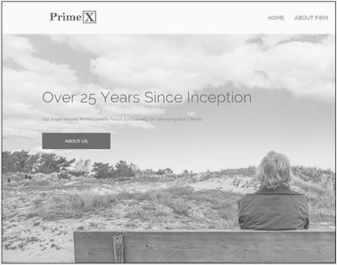
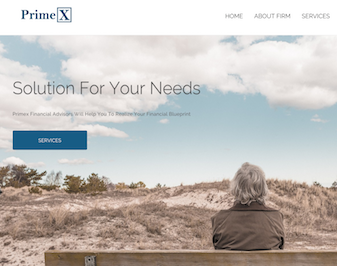
new hover states and imgs

diff --git a/organge/public/css/style.css b/organge/public/css/style.css
@@ -1,1 +1,1 @@
-.hero,.me{height:100vh}@font-face{font-family:Raleway;font-style:normal;font-weight:500;src:local('Raleway Medium'),local('Raleway-Medium'),url(https://fonts.gstatic.com/s/raleway/v10/CcKI4k9un7TZVWzRVT-T8y3USBnSvpkopQaUR-2r7iU.ttf) format('truetype')}@font-face{font-family:Raleway;font-style:normal;font-weight:700;src:local('Raleway Bold'),local('Raleway-Bold'),url(https://fonts.gstatic.com/s/raleway/v10/JbtMzqLaYbbbCL9X6EvaIy3USBnSvpkopQaUR-2r7iU.ttf) format('truetype')}*{margin:0;padding:0;box-sizing:border-box}html{-webkit-text-size-adjust:100%}body{font-size:14;font-family:Raleway;font-weight:500}.row{max-width:100%;margin:0 auto}a{text-decoration:none;color:#f84133;cursor:pointer}.clearfix{overflow:auto}.left{float:left}.right{float:right}.hero{background:url(../img/hero.jpg) center center no-repeat fixed;background-size:cover}.hero .heroTitle{text-align:center;font-weight:700;color:#fff;font-size:3.5em;position:absolute;top:50%;left:50%;-webkit-transform:translate(-50%,-50%);transform:translate(-50%,-50%);-webkit-animation-duration:2s;animation-duration:2s;-webkit-animation-delay:.3s;animation-delay:.3s}.hero .heroTitle .slogan{font-size:.3em;color:#000;-webkit-animation-duration:2s;animation-duration:2s;-webkit-animation-delay:1.5s;animation-delay:1.5s}.projects{background-color:#fff;padding-bottom:100px}.projects .proTitle{color:#6d6b6b;text-align:center;padding-top:30px;padding-bottom:30px;font-size:2em}.copy,.footerLinks{background:#444242;color:#f5f4f4;overflow:hidden;width:100%}.projects .box{padding-left:2%;padding-top:2%;padding-right:2%}.footerLinks{max-height:690px}.copy{padding-top:90px;padding-bottom:20px;text-align:center;max-height:200px}@-webkit-keyframes animatedBackground{to{background-position:100% 0}}@keyframes animatedBackground{to{background-position:100% 0}}.me{background-image:url(../img/meBG.png);background-position:0 0;background-repeat:repeat-x;-webkit-animation:animatedBackground 5s linear infinite alternate;animation:animatedBackground 5s linear infinite alternate}.about{overflow:hidden;background:#f5f4f4;width:100%;color:#5d5959;max-height:690px}.col-3{width:33%}.col-5{width:50%}.col-6{width:67%}@media (min-width:1020px){.about h1{padding:60px 20px 0;font-size:4em}.about p{padding:0 20px 30px;font-size:2em}.col-6.right{width:60%;padding-right:7%}.footerLinks{padding-top:5%}.contact,.social{padding-left:10%}.footer h1{font-size:2.5em}.footer a,.footer p{font-size:1.2em}}@media only screen and (max-width:480px){.contact,.pic,.social{float:none!important}.contact,.footer,.social{text-align:center}.contact{padding-bottom:40px}.copy{padding-top:100px}.about,.copy,.footer{text-align:center}.about h1{padding:10px 20px 0;font-size:2em}.about p{padding:0 20px 30px;font-size:1.3em}.col-3,.col-5,.col-6{width:100%}}@media only screen and (min-device-width:375px) and (max-device-width:667px) and (orientation:portrait){.about,.copy,.footer{text-align:center}.about h1{padding:10px 20px 0;font-size:2em}.about p{padding:0 20px 30px;font-size:1.5em}.col-3,.col-5,.col-6{width:100%}}@media only screen and (min-device-width:768px) and (max-device-width:1024px) and (orientation:portrait){.about h1{padding:10px 20px 0;font-size:1.8em}.about p{padding:0 20px 30px;font-size:1.2em}}@media only screen and (min-device-width:768px) and (max-device-width:1024px) and (orientation:landscape){.about h1{padding:10px 20px 0;font-size:2.6em}.about p{padding:0 20px 20px;font-size:2em}}@media only screen and (min-device-width:414px) and (max-device-width:736px) and (orientation:landscape){.about h1{padding:10px 20px 0;font-size:1.8em}.about p{padding:0 20px 20px;font-size:1.2em}.footer .contact,.footer .social{text-align:center}}@media only screen and (min-device-width:375px) and (max-device-width:667px) and (orientation:landscape){.about h1{padding:10px 20px 0;font-size:1.5em}.about p{padding:0 20px 20px;font-size:1em}.footer .contact,.footer .social{text-align:center}}@media only screen and (min-device-width:320px) and (max-device-width:568px) and (orientation:landscape){.about h1{padding:20px 20px 0;font-size:1em}.about p{padding:0 20px 20px;font-size:1em}.footer .contact,.footer .social{text-align:center}}
+.hero,.me{height:100vh}@font-face{font-family:Raleway;font-style:normal;font-weight:500;src:local('Raleway Medium'),local('Raleway-Medium'),url(https://fonts.gstatic.com/s/raleway/v10/CcKI4k9un7TZVWzRVT-T8y3USBnSvpkopQaUR-2r7iU.ttf) format('truetype')}@font-face{font-family:Raleway;font-style:normal;font-weight:700;src:local('Raleway Bold'),local('Raleway-Bold'),url(https://fonts.gstatic.com/s/raleway/v10/JbtMzqLaYbbbCL9X6EvaIy3USBnSvpkopQaUR-2r7iU.ttf) format('truetype')}*{margin:0;padding:0;box-sizing:border-box}html{-webkit-text-size-adjust:100%}body{font-size:14;font-family:Raleway;font-weight:500}.row{max-width:100%;margin:0 auto}a{text-decoration:none;color:#f84133;cursor:pointer}.clearfix{overflow:auto}.left{float:left}.right{float:right}.hero{background-image:linear-gradient(rgba(0,0,0,.3),rgba(0,0,0,.7)),url(../img/hero.jpg);background-size:cover}.hero .heroTitle{text-align:center;font-weight:700;color:#fff;font-size:3.5em;position:absolute;top:50%;left:50%;-webkit-transform:translate(-50%,-50%);transform:translate(-50%,-50%);-webkit-animation-duration:2s;animation-duration:2s;-webkit-animation-delay:.3s;animation-delay:.3s;text-shadow:2px 2px #000}.hero .heroTitle .slogan{font-size:.3em;color:#fff;-webkit-animation-duration:2s;animation-duration:2s;-webkit-animation-delay:1.5s;animation-delay:1.5s}.projects{background-color:#fff;padding-bottom:100px}.projects .proTitle{color:#6d6b6b;text-align:center;padding-top:30px;padding-bottom:30px;font-size:2em}.copy,.footerLinks{background:#444242;color:#f5f4f4;overflow:hidden;width:100%}.projects .box{padding-left:2%;padding-top:2%;padding-right:2%}.projects img{transition:1s all ease}.projects img:hover{-webkit-filter:sepia(100%);filter:sepia(100%);-webkit-transform:rotateX(180deg);transform:rotateX(180deg)}.footerLinks{max-height:690px}.copy{padding-top:90px;padding-bottom:20px;text-align:center;max-height:200px}@-webkit-keyframes animatedBackground{to{background-position:100% 0}}@keyframes animatedBackground{to{background-position:100% 0}}.me{background-image:url(../img/meBG.png);background-position:0 0;background-repeat:repeat-x;-webkit-animation:animatedBackground 5s linear infinite alternate;animation:animatedBackground 5s linear infinite alternate}.about{overflow:hidden;background:#f5f4f4;width:100%;color:#5d5959;max-height:690px}.col-3{width:33%}.col-5{width:50%}.col-6{width:67%}@media (min-width:1020px){.about h1{padding:60px 20px 0;font-size:4em}.about p{padding:0 20px 30px;font-size:2em}.col-6.right{width:60%;padding-right:7%}.footerLinks{padding-top:5%}.contact,.social{padding-left:10%}.footer h1{font-size:2.5em}.footer a,.footer p{font-size:1.2em}}@media only screen and (max-width:480px){.contact,.pic,.social{float:none!important}.contact,.footer,.social{text-align:center}.contact{padding-bottom:40px}.copy{padding-top:100px}.about,.copy,.footer{text-align:center}.about h1{padding:10px 20px 0;font-size:2em}.about p{padding:0 20px 30px;font-size:1.3em}.col-3,.col-5,.col-6{width:100%}}@media only screen and (min-device-width:375px) and (max-device-width:667px) and (orientation:portrait){.about,.copy,.footer{text-align:center}.about h1{padding:10px 20px 0;font-size:2em}.about p{padding:0 20px 30px;font-size:1.5em}.col-3,.col-5,.col-6{width:100%}}@media only screen and (min-device-width:768px) and (max-device-width:1024px) and (orientation:portrait){.about h1{padding:10px 20px 0;font-size:1.8em}.about p{padding:0 20px 30px;font-size:1.2em}}@media only screen and (min-device-width:768px) and (max-device-width:1024px) and (orientation:landscape){.about h1{padding:10px 20px 0;font-size:2.6em}.about p{padding:0 20px 20px;font-size:2em}}@media only screen and (min-device-width:414px) and (max-device-width:736px) and (orientation:landscape){.about h1{padding:10px 20px 0;font-size:1.8em}.about p{padding:0 20px 20px;font-size:1.2em}.footer .contact,.footer .social{text-align:center}}@media only screen and (min-device-width:375px) and (max-device-width:667px) and (orientation:landscape){.about h1{padding:10px 20px 0;font-size:1.5em}.about p{padding:0 20px 20px;font-size:1em}.footer .contact,.footer .social{text-align:center}}@media only screen and (min-device-width:320px) and (max-device-width:568px) and (orientation:landscape){.about h1{padding:20px 20px 0;font-size:1em}.about p{padding:0 20px 20px;font-size:1em}.footer .contact,.footer .social{text-align:center}}

diff --git a/organge/public/sass/hero.scss b/organge/public/sass/hero.scss
@@ -3,7 +3,8 @@
 ************************/
 .hero{
   height: 100vh;
-  background: url(../img/hero.jpg) no-repeat center center fixed;
+  // background: url(../img/hero.jpg) no-repeat center center fixed;
+  background-image: linear-gradient(rgba(0,0,0, 0.3), rgba(0,0,0, 0.7)), url(../img/hero.jpg);
   background-size: cover;
 
   .heroTitle{
@@ -17,10 +18,11 @@
     transform: translate(-50%, -50%);
     animation-duration: 2s;
     animation-delay: .3s;
+    text-shadow: 2px 2px #000;
 
     .slogan{
       font-size: .3em;
-      color: black;
+      color: white;
       animation-duration: 2s;
       animation-delay: 1.5s;
     }

diff --git a/organge/public/sass/projects.scss b/organge/public/sass/projects.scss
@@ -18,4 +18,11 @@
     padding-top: 2%;
     padding-right: 2%;
   }
+  img{
+    transition: 1s all ease;
+  }
+  img:hover{
+     filter:sepia(100%);
+     transform:rotateX(180deg);
+  }
 }

diff --git a/organge/public/sass/about.scss b/organge/public/sass/about.scss
@@ -7,4 +7,8 @@
   width: 100%;
   color: $aboutTxtColor;
   max-height: 690px;
+
+  img{
+      //filter: sepia(50%);
+  }
 }
